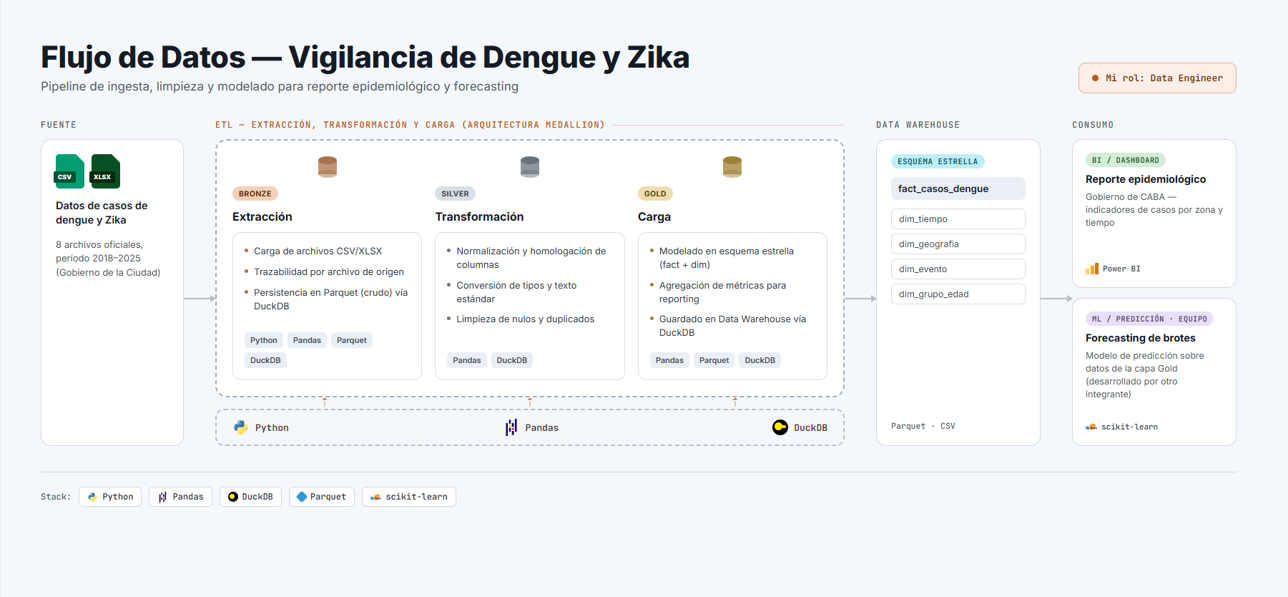
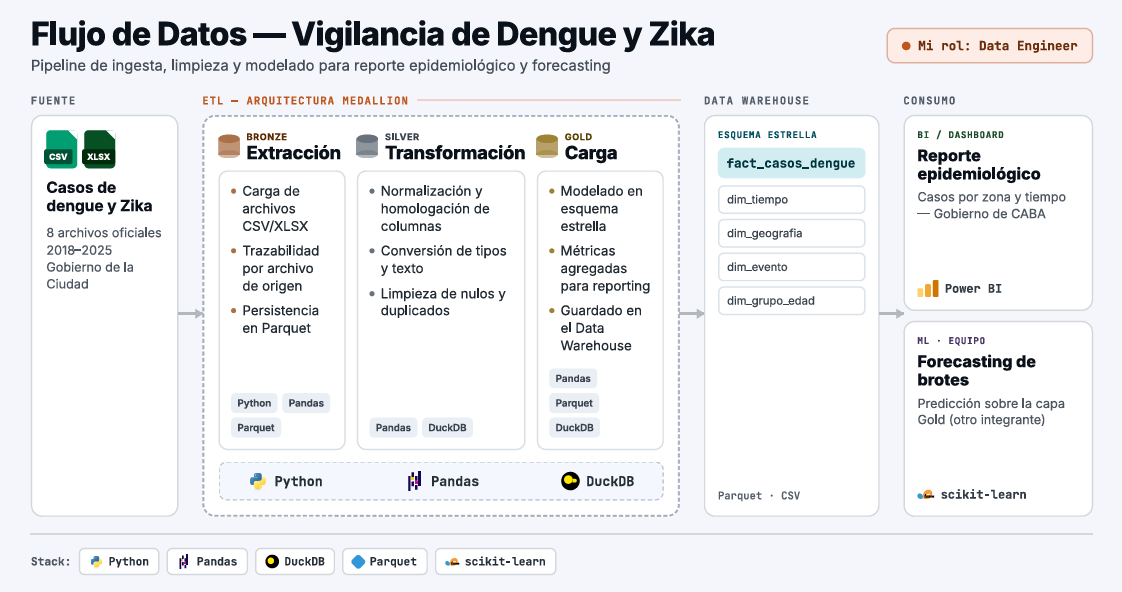
modificaciones en seccion proyectos y cv

diff --git a/index.html b/index.html
@@ -63,9 +63,9 @@
         <span data-es="soy" data-en="I'm">soy</span> <span>Juan Jerez</span>
       </h1>
 
-      <p class="hero-description" data-es="Estudiante de 4° año de Ingeniería en Informática, con experiencia en el área de datos: análisis de datos, ingeniería de datos y Business Intelligence. Interesado en seguir desarrollándome en áreas como <strong>Data Engineering</strong>." data-en="4th-year Computer Engineering student, with experience in the data field: data analysis, data engineering and Business Intelligence. Interested in continuing to grow in areas like <strong>Data Engineering</strong>.">
+      <p class="hero-description" data-es="Estudiante de 4° año de Ingeniería en Informática, con experiencia en el área de datos: análisis de datos, ingeniería de datos y Business Intelligence. Interesado en seguir desarrollándome y creciendo dentro del ecosistema de datos." data-en="4th-year Computer Engineering student, with experience in the data field: data analysis, data engineering and Business Intelligence. Interested in continuing to grow within the data ecosystem.">
   Estudiante de 4° año de Ingeniería en Informática, con experiencia en el área de datos: análisis de datos,
-  ingeniería de datos y Business Intelligence. Interesado en seguir desarrollándome en áreas como <strong>Data Engineering</strong>.
+  ingeniería de datos y Business Intelligence. Interesado en seguir desarrollándome y creciendo dentro del ecosistema de datos.
 </p>
 
       <div class="hero-buttons">
@@ -115,8 +115,8 @@
     "Me gusta cuando los datos dejan de ser números y empiezan a contar una historia."
   </blockquote>
 
-  <p data-es="Soy estudiante de Ingeniería en Informática en UADE, con orientación a <strong>Data Engineering</strong>. Trabajo en el diseño de pipelines de datos y en la infraestructura que da soporte al análisis y al BI." data-en="I'm a Computer Engineering student at UADE, with a focus on <strong>Data Engineering</strong>. I work on designing data pipelines and the infrastructure that supports analysis and BI.">
-    Soy estudiante de Ingeniería en Informática en UADE, con orientación a <strong>Data Engineering</strong>.
+  <p data-es="Soy estudiante de Ingeniería en Informática en UADE, con orientación a <strong>datos</strong>. Trabajo en el diseño de pipelines de datos y en la infraestructura que da soporte al análisis y al BI." data-en="I'm a Computer Engineering student at UADE, with a focus on <strong>data</strong>. I work on designing data pipelines and the infrastructure that supports analysis and BI.">
+    Soy estudiante de Ingeniería en Informática en UADE, con orientación a <strong>datos</strong>.
     Trabajo en el diseño de pipelines de datos y en la infraestructura que da soporte al análisis y al BI.
   </p>
 
@@ -284,17 +284,14 @@ automatización de datos. Busco seguir creciendo dentro del ecosistema de datos.
 
       <div class="filter-buttons">
         <button class="filter-btn active" data-filter="all" data-es="Todos" data-en="All">Todos</button>
-        <button class="filter-btn" data-filter="python">Python</button>
-        <button class="filter-btn" data-filter="duckdb">DuckDB</button>
-        <button class="filter-btn" data-filter="sql-server">SQL Server</button>
-        <button class="filter-btn" data-filter="power-bi">Power BI</button>
-        <button class="filter-btn" data-filter="power-query">Power Query</button>
-        <button class="filter-btn" data-filter="looker-studio">Looker Studio</button>
+        <button class="filter-btn" data-filter="data-engineering" data-es="Ingeniería de Datos" data-en="Data Engineering">Ingeniería de Datos</button>
+        <button class="filter-btn" data-filter="data-analysis" data-es="Análisis de Datos" data-en="Data Analysis">Análisis de Datos</button>
+        <button class="filter-btn" data-filter="data-science" data-es="Ciencia de Datos" data-en="Data Science">Ciencia de Datos</button>
       </div>
 
       <div class="project-grid">
-        <article class="project-card" data-category="python duckdb">
-          <img src="assets/images/Pipeline_Dengue_Zika.png" alt="Pipeline ETL de vigilancia epidemiológica de Dengue y Zika">
+        <article class="project-card" data-category="data-engineering">
+          <img src="assets/images/Pipeline_Dengue_Zika.png" alt="Pipeline ETL de vigilancia epidemiológica de Dengue y Zika" class="project-image-contain" style="background: #f4f6fb;">
           <h3 data-es="Pipeline ETL de Vigilancia Epidemiológica" data-en="Epidemiological Surveillance ETL Pipeline">Pipeline ETL de Vigilancia Epidemiológica</h3>
           <p data-es="Pipeline ETL para datos públicos de Dengue y Zika (Ministerio de Salud, 2018-2026), proyecto final de Ciencia de Datos en UADE. Como Data Engineer diseñé el pipeline completo con arquitectura Medallion (Bronze/Silver/Gold): ingesta de 9 fuentes, normalización e imputación, validación de calidad, modelado en esquema estrella y data marts para BI y ML." data-en="ETL pipeline for public Dengue and Zika surveillance data (Ministry of Health, 2018-2026), final Data Science project at UADE. As Data Engineer I designed the full pipeline with Medallion architecture (Bronze/Silver/Gold): ingestion of 9 sources, normalization and imputation, quality validation, star schema modeling and data marts for BI and ML.">
             Pipeline ETL para datos públicos de Dengue y Zika (Ministerio de Salud, 2018-2026),
@@ -312,7 +309,7 @@ automatización de datos. Busco seguir creciendo dentro del ecosistema de datos.
           </a>
         </article>
 
-        <article class="project-card" data-category="sql-server">
+        <article class="project-card" data-category="data-engineering">
           <img src="assets/images/BD-Bisblick.jpg" alt="Sistema de base de datos relacional">
           <h3 data-es="Sistema de Base de Datos Relacional" data-en="Relational Database System">Sistema de Base de Datos Relacional</h3>
           <p data-es="Diseño e implementación de una base de datos relacional para registrar, consultar y analizar información de becados, con foco en integridad, trazabilidad y consulta eficiente de los datos." data-en="Design and implementation of a relational database to record, query and analyze scholarship data, focused on integrity, traceability and efficient querying.">
@@ -328,7 +325,7 @@ automatización de datos. Busco seguir creciendo dentro del ecosistema de datos.
           </a>
         </article>
 
-        <article class="project-card" data-category="looker-studio">
+        <article class="project-card" data-category="data-analysis">
           <img src="assets/images/DataWiseConsulting.png" alt="Dashboard de análisis de ventas 2024">
           <h3 data-es="Dashboard de Análisis de Ventas 2024" data-en="Sales Analysis Dashboard 2024">Dashboard de Análisis de Ventas 2024</h3>
           <p data-es="Dashboard desarrollado en Looker Studio para analizar el desempeño comercial, con KPIs, filtros y visualizaciones orientadas al seguimiento de ventas y apoyo a la toma de decisiones." data-en="Dashboard built in Looker Studio to analyze commercial performance, featuring KPIs, filters and visualizations for sales tracking and decision support.">
@@ -344,7 +341,7 @@ automatización de datos. Busco seguir creciendo dentro del ecosistema de datos.
           </a>
         </article>
 
-        <article class="project-card" data-category="power-bi sql-server">
+        <article class="project-card" data-category="data-analysis">
           <img src="assets/images/DashboardBisblick.png" alt="Dashboard en Power BI conectado a SQL Server">
           <h3 data-es="Dashboard de Gestión de Becados" data-en="Scholarship Management Dashboard">Dashboard de Gestión de Becados</h3>
           <p data-es="Tablero desarrollado en Power BI conectado a una base de datos SQL Server, diseñado para visualizar indicadores y facilitar el seguimiento de información académica, social y laboral." data-en="Power BI dashboard connected to a SQL Server database, designed to visualize indicators and track academic, social and employment data.">
@@ -361,7 +358,7 @@ automatización de datos. Busco seguir creciendo dentro del ecosistema de datos.
           </a>
         </article>
 
-        <article class="project-card" data-category="power-bi power-query">
+        <article class="project-card" data-category="data-analysis">
           <img src="assets/images/DashboardCovid.png" alt="Dashboard de COVID-19 en CABA">
           <h3 data-es="Dashboard de COVID-19 en CABA" data-en="COVID-19 Dashboard in CABA">Dashboard de COVID-19 en CABA</h3>
           <p data-es="Proyecto de análisis y visualización de datos en Power BI con preparación previa en Power Query, incluyendo indicadores segmentados por edad, género y barrios para facilitar la lectura de tendencias." data-en="Data analysis and visualization project in Power BI with prior preparation in Power Query, including indicators segmented by age, gender and neighborhoods to identify trends.">
@@ -378,7 +375,7 @@ automatización de datos. Busco seguir creciendo dentro del ecosistema de datos.
           </a>
         </article>
 
-        <article class="project-card" data-category="python power-bi">
+        <article class="project-card" data-category="data-analysis">
           <img src="assets/images/DashboardNetflix.png" alt="Análisis de catálogo de Netflix">
           <h3 data-es="Análisis de Catálogo de Netflix" data-en="Netflix Catalog Analysis">Análisis de Catálogo de Netflix</h3>
           <p data-es="Exploración y análisis de datos con Python y Pandas, complementado con visualización en Power BI para identificar distribuciones, tendencias de estrenos y comportamiento del catálogo por país y clasificación." data-en="Data exploration and analysis with Python and Pandas, complemented with Power BI visualization to identify distributions, release trends and catalog behavior by country and rating.">
@@ -391,6 +388,23 @@ automatización de datos. Busco seguir creciendo dentro del ecosistema de datos.
             <span class="tool-tag">Power BI</span>
           </div>
           <a href="https://github.com/Juanjerezz/netflix-analisis-datos" class="project-link" target="_blank" rel="noopener noreferrer" data-es="Ver proyecto" data-en="View project">
+            Ver proyecto
+          </a>
+        </article>
+
+        <article class="project-card" data-category="data-science">
+          <img src="assets/images/deteccion-de-fraude.png" alt="Detección de fraude en transacciones con tarjeta de crédito" class="project-image-contain">
+          <h3 data-es="Detección de Fraude en Transacciones con Tarjeta de Crédito" data-en="Credit Card Fraud Detection">Detección de Fraude en Transacciones con Tarjeta de Crédito</h3>
+          <p data-es="Proyecto final de Machine Learning en Talento Tech: modelo para detectar fraude en transacciones con tarjeta de crédito sobre un dataset real de Kaggle con clases fuertemente desbalanceadas, comparando Regresión Logística y Random Forest. Logró un 97% de precisión detectando fraudes." data-en="Final Machine Learning project at Talento Tech: a model to detect credit card fraud on a real, strongly imbalanced Kaggle dataset, comparing Logistic Regression and Random Forest. Achieved 97% precision detecting fraud.">
+            Proyecto final de Machine Learning en Talento Tech: modelo para detectar fraude en
+            transacciones con tarjeta de crédito sobre un dataset real de Kaggle con clases
+            fuertemente desbalanceadas, comparando Regresión Logística y Random Forest.
+            Logró un 97% de precisión detectando fraudes.
+          </p>
+          <div class="project-tools">
+            <span class="tool-tag">Python</span>
+          </div>
+          <a href="https://github.com/Juanjerezz/ml-talento-tech" class="project-link" target="_blank" rel="noopener noreferrer" data-es="Ver proyecto" data-en="View project">
             Ver proyecto
           </a>
         </article>

diff --git a/assets/style.css b/assets/style.css
@@ -771,6 +771,11 @@ header {
   border: 1px solid #e4edf4;
 }
 
+.project-card img.project-image-contain {
+  object-fit: contain;
+  background: #05070d;
+}
+
 .project-card h3 {
   color: var(--primary);
   font-size: 1.22rem;
